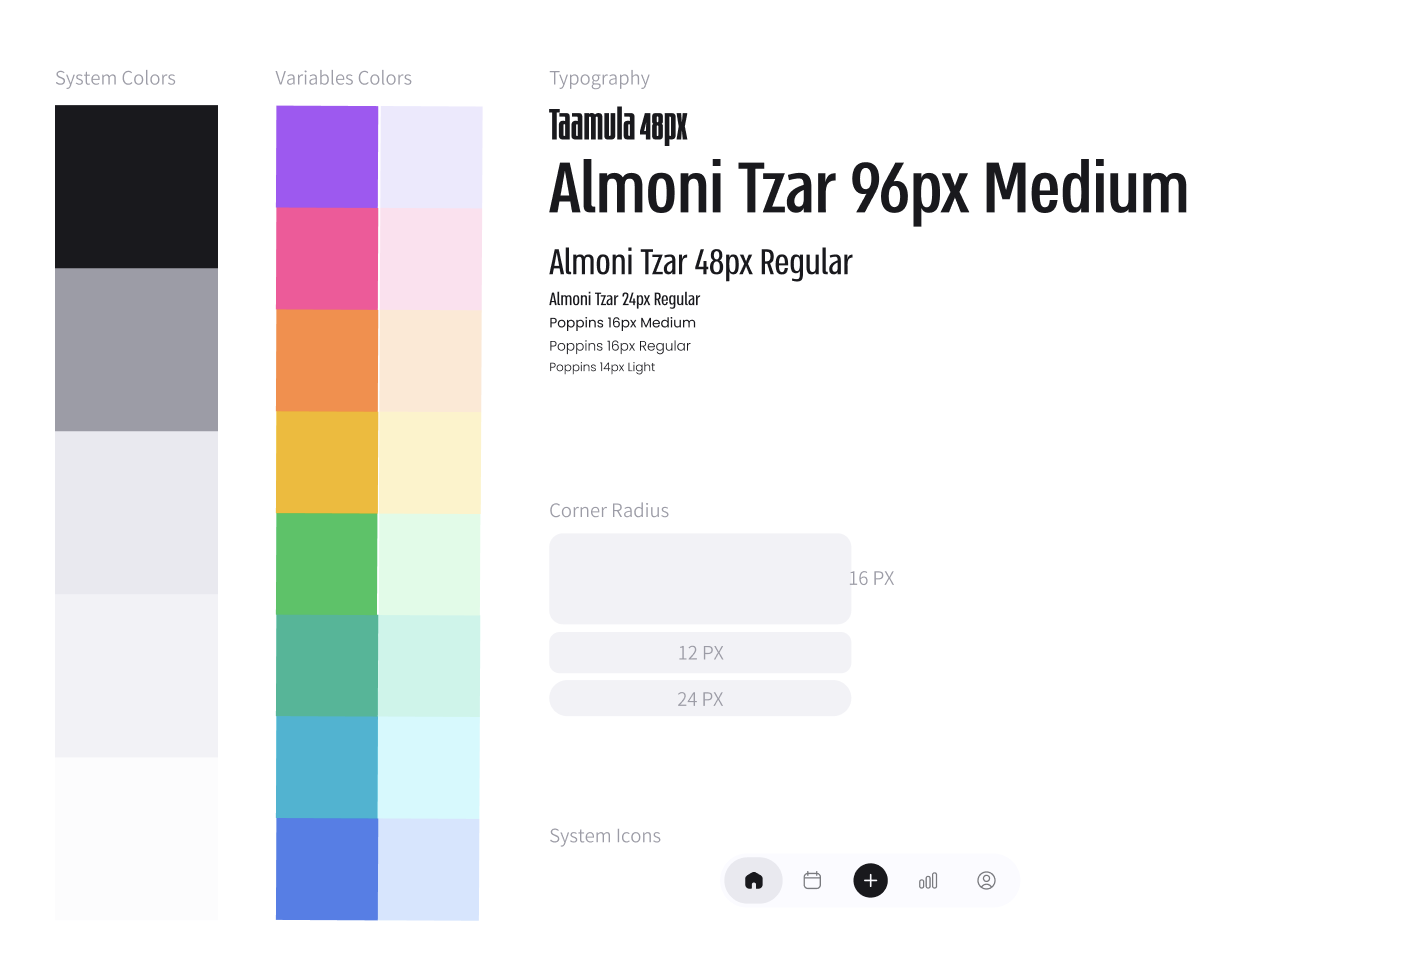
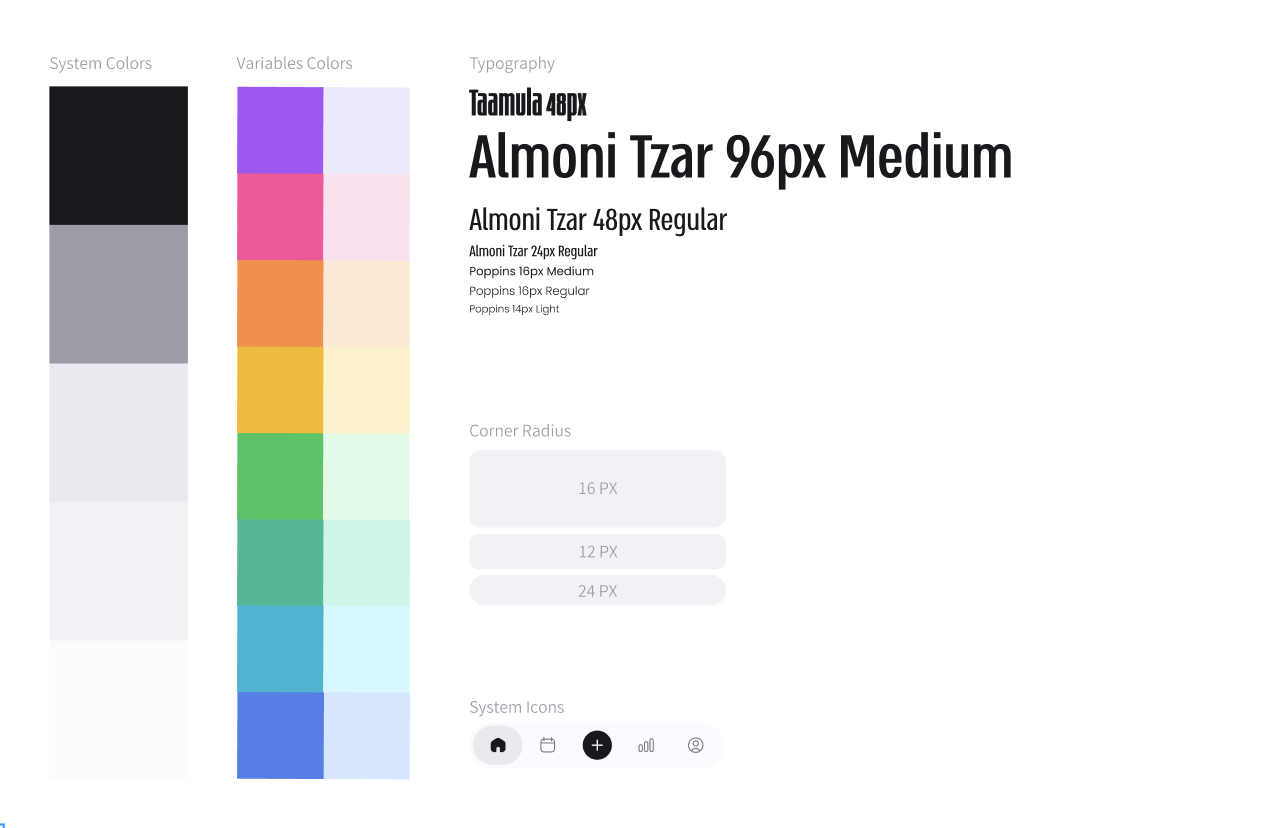
תיאור קצר של השינוי שביצעת

diff --git a/balanced.html b/balanced.html
@@ -384,9 +384,9 @@
     }
 
     .balanced-page .balanced-side-media-row > .case-body {
-      grid-column: 5 / 10;
+      grid-column: 5 / 9;
       min-width: 0;
-      margin: 0 0 16px;
+      margin: 16px 0 0;
       width: 100%;
       text-align: left;
     }
@@ -682,9 +682,6 @@
           </div>
           <div class="balanced-side-media-row">
             <h2 class="case-subhead">design system</h2>
-            <p class="case-body">
-              The visual language bridges high-energy fitness with structured finance. It pairs bold typography and saturated colors with clean, minimalist cards and a clear information hierarchy.
-            </p>
             <figure class="balanced-design-system-figure" aria-label="Design system">
               <img
                 src="balancedproject/designsystem.png"
@@ -692,6 +689,9 @@
                 loading="lazy"
               />
             </figure>
+            <p class="case-body">
+              The visual language bridges high-energy fitness with structured finance. It pairs bold typography and saturated colors with clean, minimalist cards and a clear information hierarchy.
+            </p>
           </div>
         </div>
       </section>
